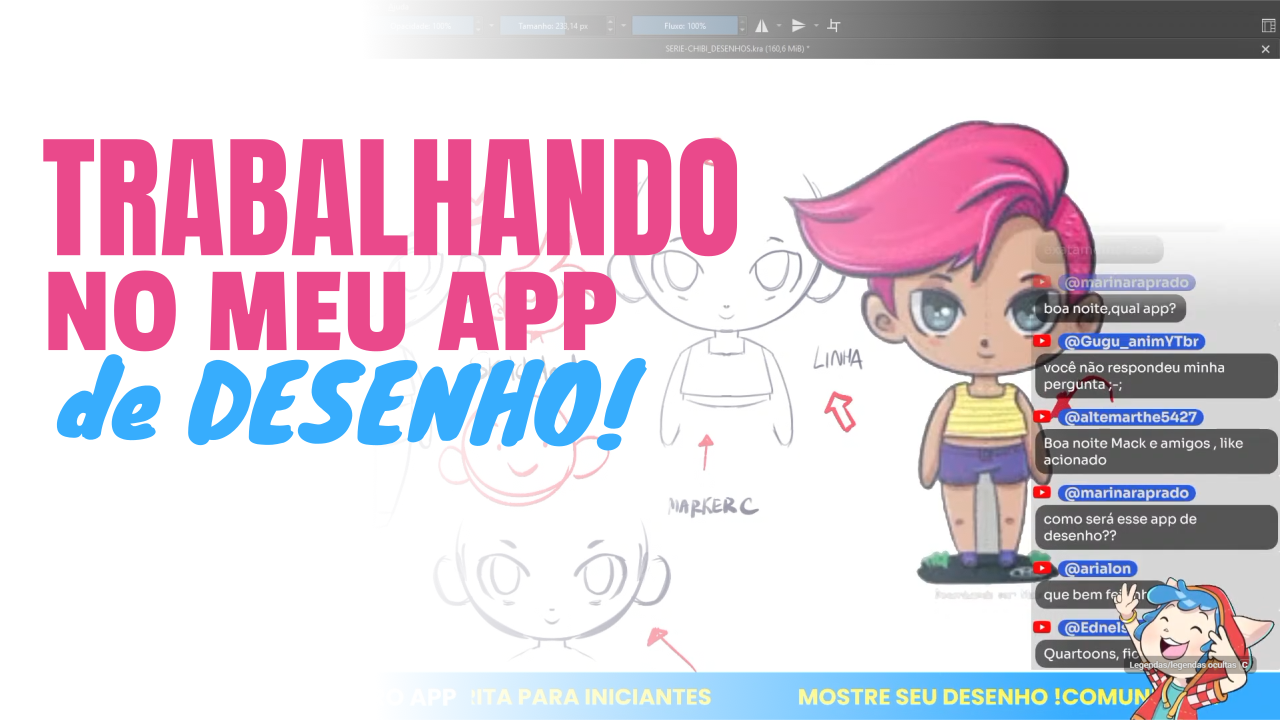
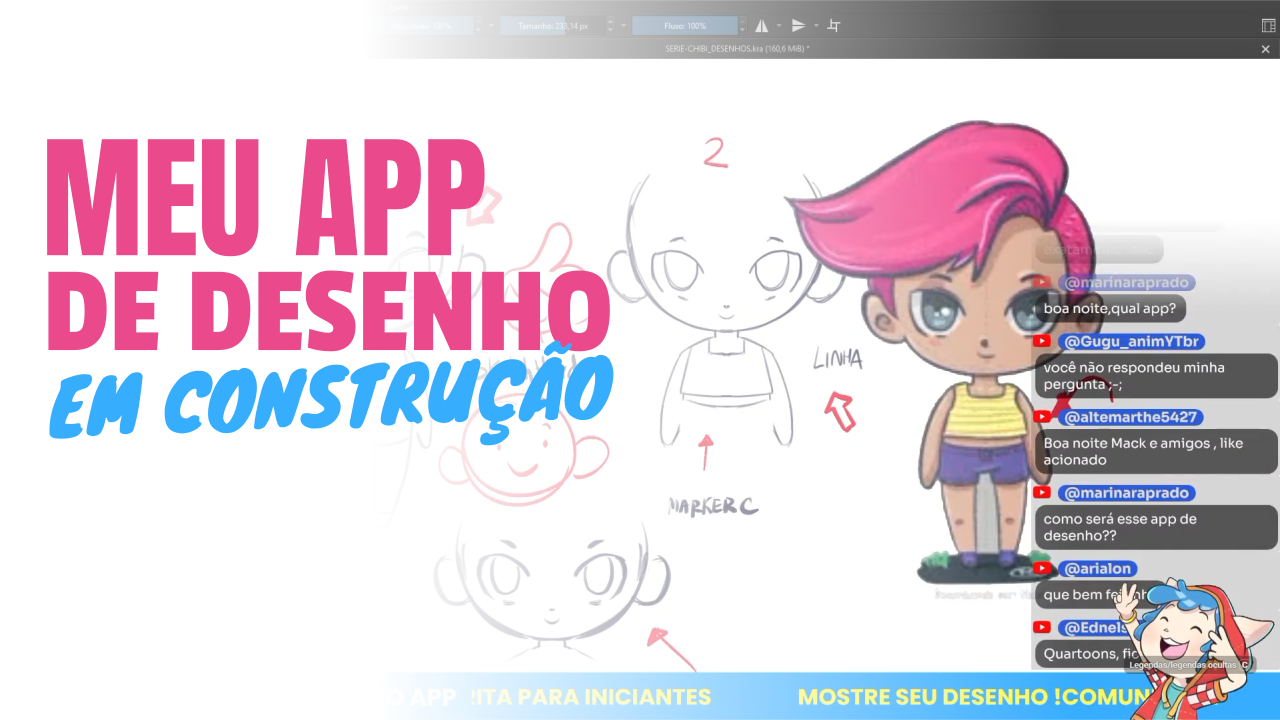
ajustes no cronograma: adicionado nova live e apoiadores de cada live

Changed region(s): [[0.0312, 0.1833, 0.5938, 0.6417]]

diff --git a/themes/custom/layouts/cronograma/list.html b/themes/custom/layouts/cronograma/list.html
@@ -751,6 +751,78 @@
     font-size: 12px;
   }
 
+  .supporters-wrapper {
+    position: relative;
+    display: inline-flex;
+    align-items: center;
+  }
+
+  .badge-supporters {
+    display: inline-flex;
+    align-items: center;
+    gap: 4px;
+    padding: 2px 8px;
+    border-radius: 9999px;
+    font-size: 10px;
+    font-weight: 700;
+    background: linear-gradient(135deg, rgba(251, 191, 36, 0.15), rgba(245, 158, 11, 0.12));
+    color: #b45309;
+    border: 1px solid rgba(245, 158, 11, 0.35);
+    cursor: default;
+    transition: all 0.2s ease;
+    user-select: none;
+  }
+
+  .badge-supporters:hover {
+    background: linear-gradient(135deg, rgba(251, 191, 36, 0.25), rgba(245, 158, 11, 0.2));
+    border-color: rgba(245, 158, 11, 0.6);
+    box-shadow: 0 2px 6px rgba(245, 158, 11, 0.15);
+  }
+
+  .badge-supporters .heart-icon {
+    font-size: 11px;
+    line-height: 1;
+    filter: drop-shadow(0 1px 1px rgba(180, 83, 9, 0.3));
+  }
+
+  .supporters-tooltip {
+    visibility: hidden;
+    opacity: 0;
+    position: absolute;
+    bottom: calc(100% + 6px);
+    left: 50%;
+    transform: translateX(-50%) translateY(4px);
+    background-color: #1e293b;
+    color: #f8fafc;
+    padding: 6px 10px;
+    border-radius: 8px;
+    font-size: 10px;
+    font-weight: 600;
+    white-space: nowrap;
+    box-shadow: 0 4px 12px rgba(0, 0, 0, 0.25);
+    border: 1px solid rgba(255, 255, 255, 0.1);
+    z-index: 30;
+    pointer-events: none;
+    transition: opacity 0.2s ease, transform 0.2s ease, visibility 0.2s;
+  }
+
+  .supporters-tooltip::after {
+    content: "";
+    position: absolute;
+    top: 100%;
+    left: 50%;
+    transform: translateX(-50%);
+    border-width: 4px;
+    border-style: solid;
+    border-color: #1e293b transparent transparent transparent;
+  }
+
+  .supporters-wrapper:hover .supporters-tooltip {
+    visibility: visible;
+    opacity: 1;
+    transform: translateX(-50%) translateY(0);
+  }
+
   .historico-link {
     text-decoration: none;
     color: inherit;
@@ -1059,6 +1131,20 @@
                         <span class="material-symbols-rounded">schedule</span>
                         {{ . }}
                       </span>
+                    {{ end }}
+
+                    {{ with .supporters }}
+                      {{ $count := len . }}
+                      {{ $supportersText := delimit . ", " }}
+                      <div class="supporters-wrapper">
+                        <span class="badge-supporters">
+                          <span class="heart-icon">💛</span>
+                          {{ if eq $count 1 }}1 apoiador{{ else }}{{ $count }} apoiadores{{ end }}
+                        </span>
+                        <div class="supporters-tooltip">
+                          ✨ Apoiadores: {{ $supportersText }}
+                        </div>
+                      </div>
                     {{ end }}
 
                     <span class="badge-status realizada">Concluída</span>
